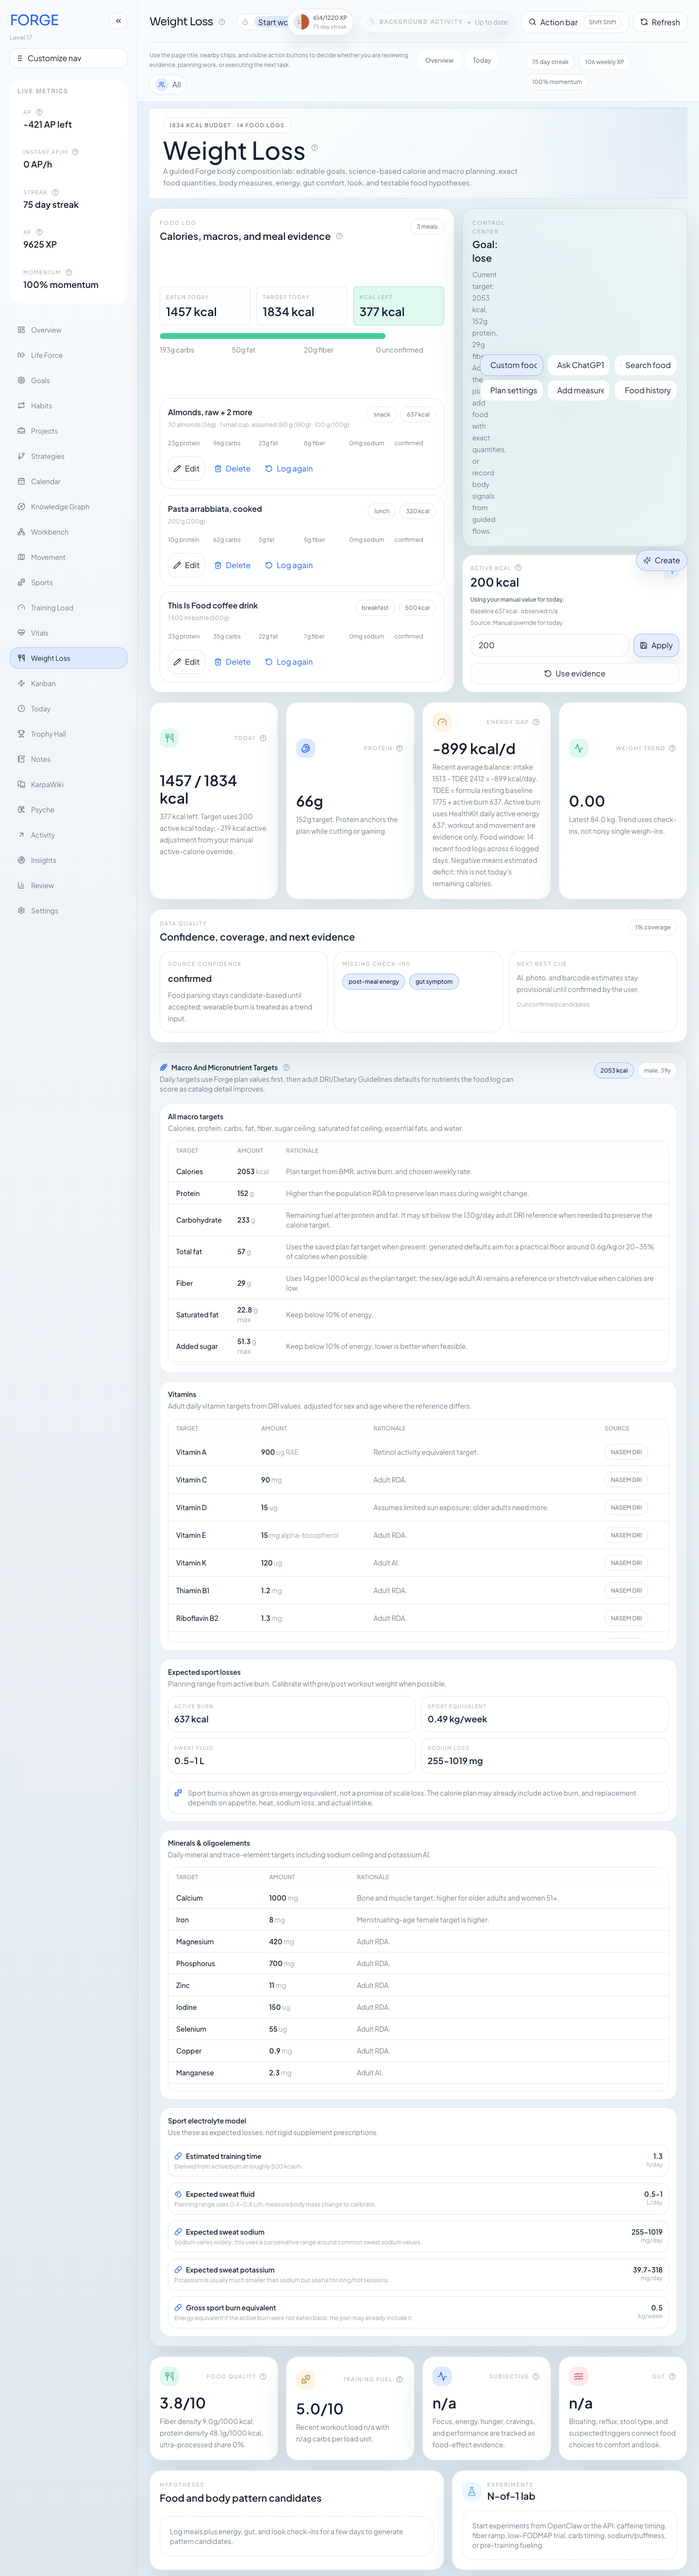
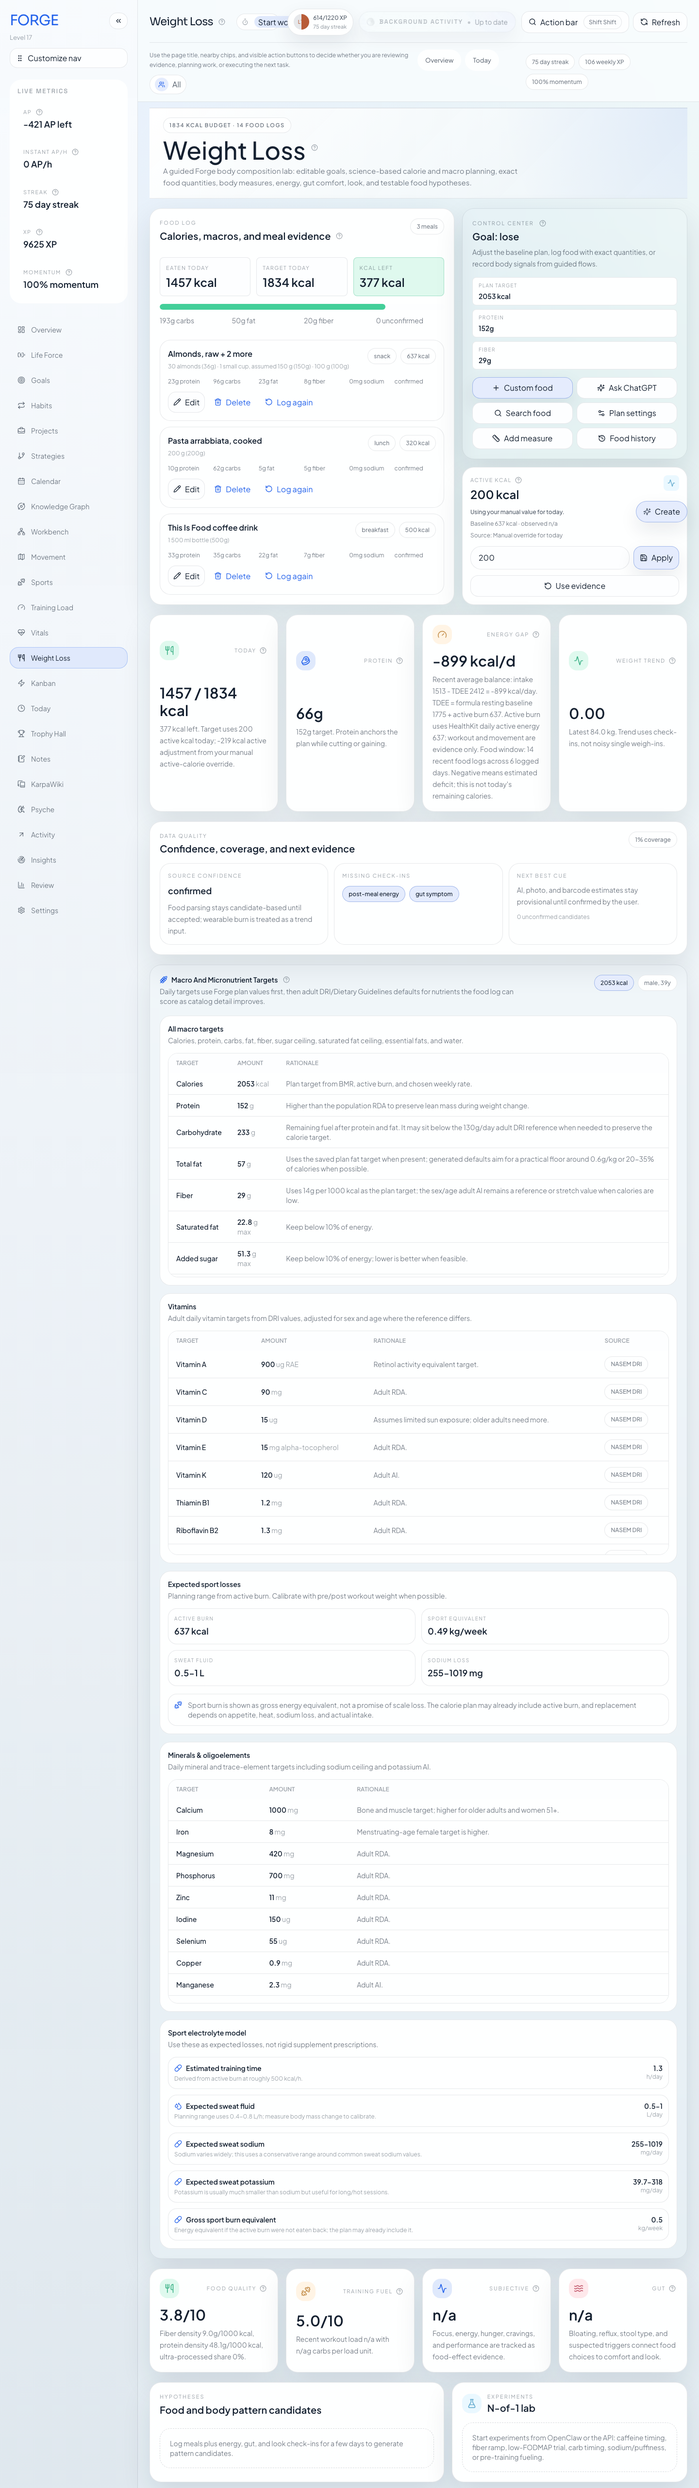
fix(weight-loss): polish budget control panel

diff --git a/src/components/weight-loss/weight-loss-action-panel.tsx b/src/components/weight-loss/weight-loss-action-panel.tsx
@@ -8,6 +8,7 @@ import {
 } from "lucide-react";
 import { Button } from "@/components/ui/button";
 import { Card } from "@/components/ui/card";
+import { InfoTooltip } from "@/components/ui/info-tooltip";
 import type { WeightLossViewData } from "@/lib/weight-loss-types";
 
 export function WeightLossActionPanel({
@@ -27,25 +28,57 @@ export function WeightLossActionPanel({
   onOpenCheckin: () => void;
   onOpenHistory: () => void;
 }) {
+  const planStats = [
+    {
+      label: "Plan target",
+      value: `${view.target.calorieTarget.toFixed(0)} kcal`
+    },
+    {
+      label: "Protein",
+      value: `${view.target.proteinGramsTarget.toFixed(0)}g`
+    },
+    {
+      label: "Fiber",
+      value: `${view.target.fiberGramsTarget.toFixed(0)}g`
+    }
+  ];
+
   return (
-    <Card className="grid gap-4 border-[var(--ui-border-subtle)] bg-[var(--ui-surface-section)] p-5 lg:grid-cols-[minmax(0,1fr)_auto] lg:items-center">
+    <Card className="grid gap-4 border-[var(--ui-border-subtle)] bg-[var(--ui-surface-section)] p-5">
       <div className="min-w-0">
-        <div className="text-[11px] uppercase tracking-[0.18em] text-[var(--ui-ink-faint)]">
-          Control center
+        <div className="flex items-center gap-2 text-[11px] uppercase tracking-[0.18em] text-[var(--ui-ink-faint)]">
+          <span>Control center</span>
+          <InfoTooltip
+            label="Explain weight-loss controls"
+            content="Use these actions to change the nutrition plan, log food, or record body signals. The day budget cards above use today's active-calorie source; the plan target here is the baseline target before today's active adjustment."
+          />
         </div>
-        <h2 className="mt-1 text-xl font-semibold text-[var(--ui-ink-strong)]">
+        <h2 className="mt-1 text-xl font-semibold leading-tight text-[var(--ui-ink-strong)]">
           {view.target.bodyGoal
             ? `Goal: ${view.target.bodyGoal}`
             : "Set the body objective"}
         </h2>
-        <p className="mt-2 max-w-3xl text-sm leading-6 text-[var(--ui-ink-soft)]">
-          Current target: {view.target.calorieTarget.toFixed(0)} kcal,{" "}
-          {view.target.proteinGramsTarget.toFixed(0)}g protein,{" "}
-          {view.target.fiberGramsTarget.toFixed(0)}g fiber. Adjust the plan, add
-          food with exact quantities, or record body signals from guided flows.
+        <p className="mt-2 text-sm leading-6 text-[var(--ui-ink-soft)]">
+          Adjust the baseline plan, log food with exact quantities, or record
+          body signals from guided flows.
         </p>
       </div>
-      <div className="grid min-w-0 gap-2 sm:grid-cols-2 xl:grid-cols-3">
+      <div className="grid gap-2 sm:grid-cols-3 xl:grid-cols-1 min-[1360px]:grid-cols-3">
+        {planStats.map((stat) => (
+          <div
+            key={stat.label}
+            className="min-w-0 rounded-[8px] border border-[var(--ui-border-subtle)] bg-[var(--ui-surface-1)] px-3 py-2"
+          >
+            <div className="text-[10px] uppercase tracking-[0.14em] text-[var(--ui-ink-faint)]">
+              {stat.label}
+            </div>
+            <div className="mt-1 truncate text-sm font-semibold text-[var(--ui-ink-strong)]">
+              {stat.value}
+            </div>
+          </div>
+        ))}
+      </div>
+      <div className="grid min-w-0 grid-cols-2 gap-2">
         <Button type="button" onClick={onOpenCustomFood}>
           <Plus className="size-4" />
           Custom food
